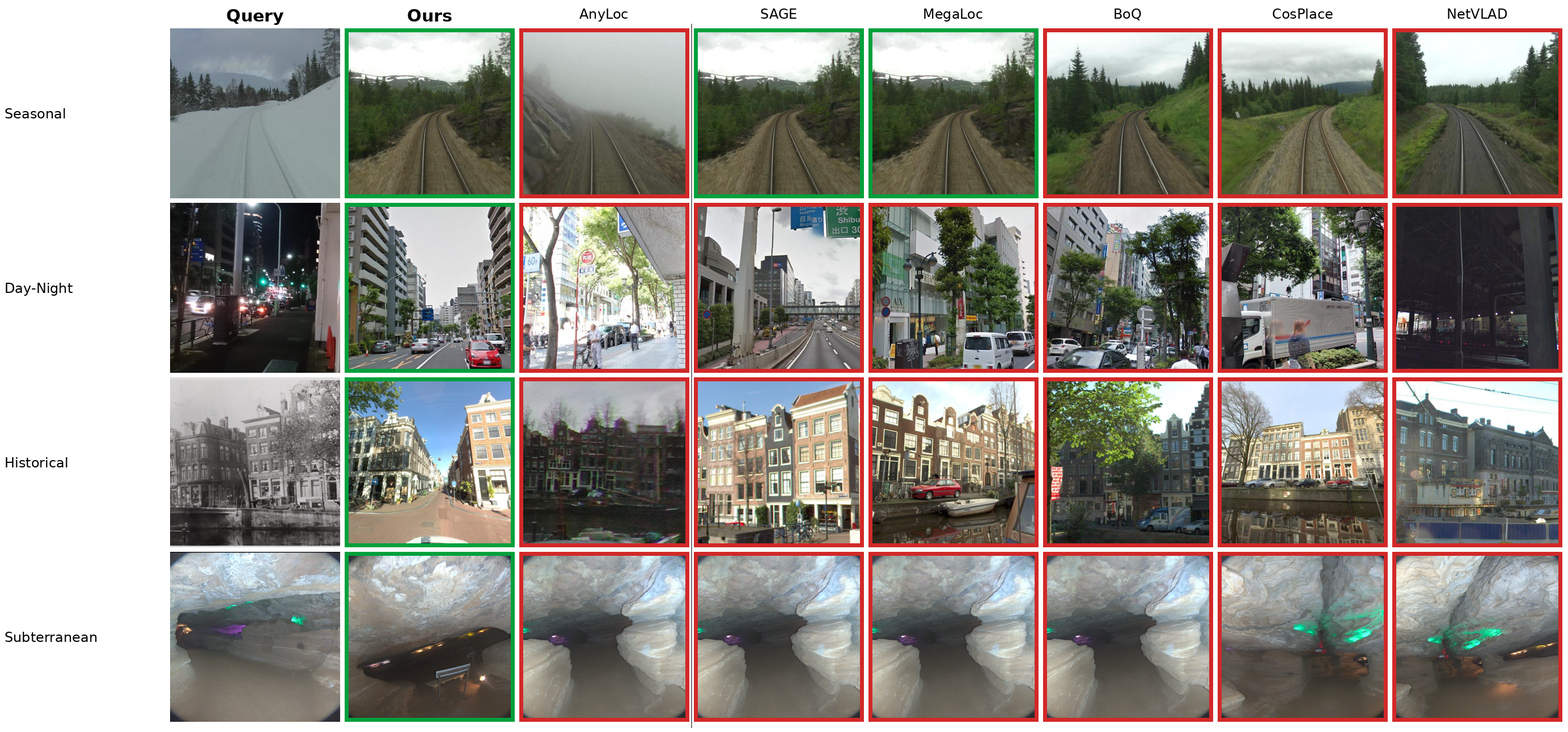
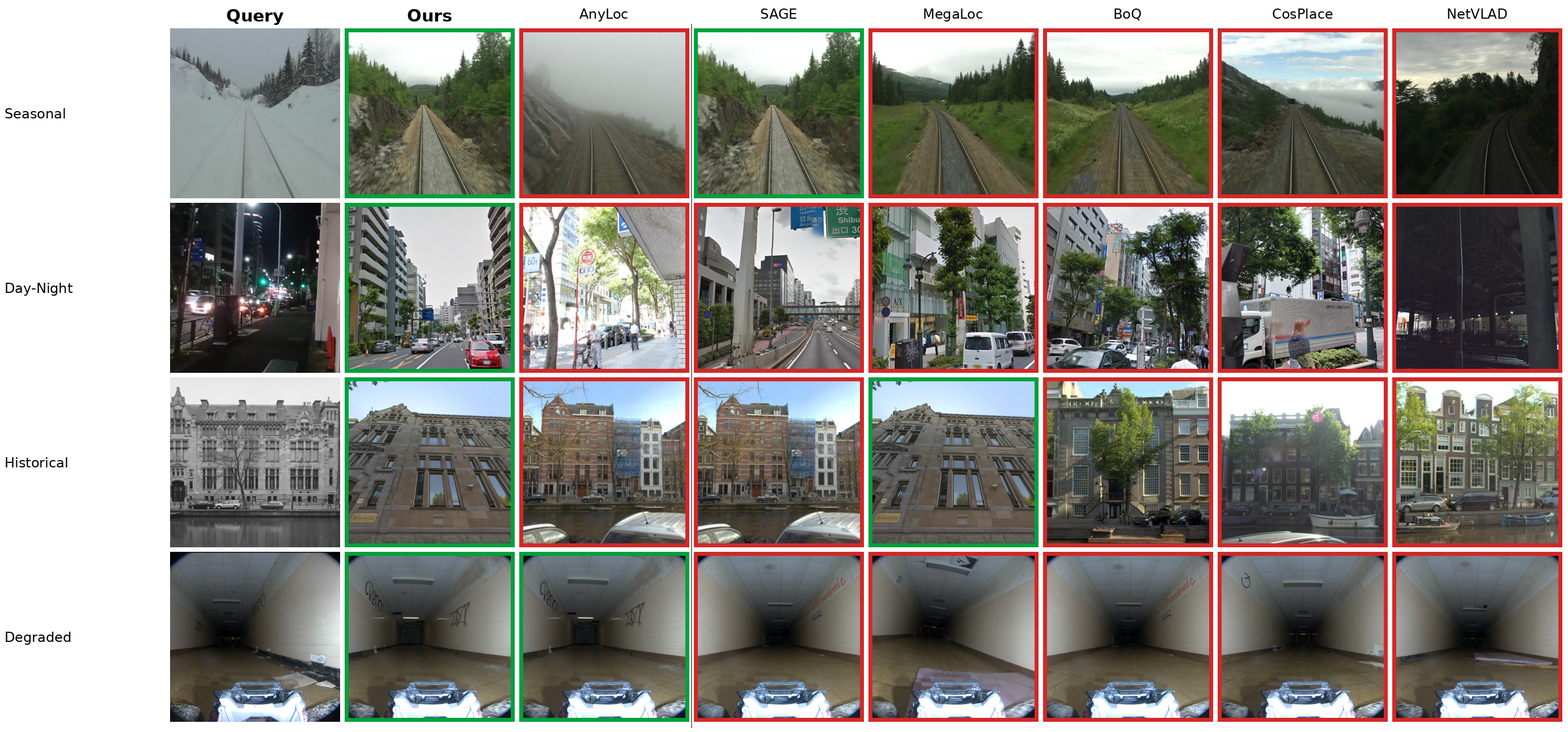
qualitative figure: Seasonal (SAGE also right), Day-Night, Historical (MegaLoc also right), Degraded (AnyLoc also right)

diff --git a/sections/04_exp_setup.tex b/sections/04_exp_setup.tex
@@ -78,7 +78,7 @@ Ours\,\emph{v3} & 2048 & 61.0 & \underline{75.9} & \underline{65.3} & \textbf{99
 }
 \end{table}
 
-Table~\ref{tab:trained} sets the same two rows against the trained methods. On the urban block, the terrain their supervision is aimed at, our mean of $93.3$ edges the strongest of them, SAGE at $93.0$, and we take the best number on Tokyo 24/7 and on AmsterTime, the benchmark with decades of time variation, without a single place label. Off street view the picture changes: the thirteen trained methods above $80$ on the urban block each give up between $26$ and $40$ mean R@1 on moving to the environments, while ours gives up $16.7$, and we take the best number on seven of the nine environments and are within $3$ points of the best on the other two, for a mean of $76.6$ against $65.1$ for MegaLoc, the strongest trained method. The margins are largest where a single descriptor has least to work with, $67.0$ against $38.1$ on the degraded Hawkins corridor, $83.0$ against $60.7$ in Laurel Caverns and $77.6$ against $46.7$ on VP-Air, the aerial set with the deepest database. Figure~\ref{fig:qual} shows four queries: where the trained methods return a different place under seasonal change, illumination change, decades of time or a subterranean corridor, the pipeline returns the correct image at rank one.
+Table~\ref{tab:trained} sets the same two rows against the trained methods. On the urban block, the terrain their supervision is aimed at, our mean of $93.3$ edges the strongest of them, SAGE at $93.0$, and we take the best number on Tokyo 24/7 and on AmsterTime, the benchmark with decades of time variation, without a single place label. Off street view the picture changes: the thirteen trained methods above $80$ on the urban block each give up between $26$ and $40$ mean R@1 on moving to the environments, while ours gives up $16.7$, and we take the best number on seven of the nine environments and are within $3$ points of the best on the other two, for a mean of $76.6$ against $65.1$ for MegaLoc, the strongest trained method. The margins are largest where a single descriptor has least to work with, $67.0$ against $38.1$ on the degraded Hawkins corridor, $83.0$ against $60.7$ in Laurel Caverns and $77.6$ against $46.7$ on VP-Air, the aerial set with the deepest database. Figure~\ref{fig:qual} shows four queries: where the trained methods return a different place under seasonal change, illumination change, decades of time or a degraded corridor, the pipeline returns the correct image at rank one.
 
 \begin{table}[tp]
 \caption{Comparison with trained methods. Recall@1 (\%) on four urban and four environment benchmarks, with the mean over all eight urban benchmarks, over all nine environments and over all seventeen; the two block means are the mean columns of the full tables in Appendix~\ref{app:trained-full}, which list every benchmark. Same splits, ground truth and configuration as Table~\ref{tab:breadth}. $^{\dagger}$reported after the method's own re-ranker; $^{\ddag}$without the cross-image encoder. Bold indicates the best value and underline the second best in each column.}
@@ -117,7 +117,7 @@ Ours\,\emph{v3}$^{\dagger}$ & 2048 & 93.7 & \textbf{98.4} & \textbf{96.6} & \tex
 \begin{figure}[tp]
 \centering
 \includegraphics[width=\textwidth]{figures/fig_qualitative.png}
-\caption{Rank-1 retrievals on four benchmarks, each method at its own single stage. A green border marks a correct rank-1 and a red one an incorrect one; training-free methods are left of the line; right of it, trained methods from newest to oldest: SAGE, MegaLoc, BoQ, CosPlace and NetVLAD. Each query is chosen automatically among those our pipeline retrieves correctly as the one whose correct image sits furthest down the rankings of the recent trained methods.}
+\caption{Rank-1 retrievals on four benchmarks, each method at its own single stage. A green border marks a correct rank-1 and a red one an incorrect one; training-free methods are left of the line; right of it, trained methods from newest to oldest: SAGE, MegaLoc, BoQ, CosPlace and NetVLAD. Queries are chosen automatically among those our pipeline retrieves correctly, as the ones whose correct image sits furthest down the rankings of the methods that fail.}
 \label{fig:qual}
 \end{figure}
 
